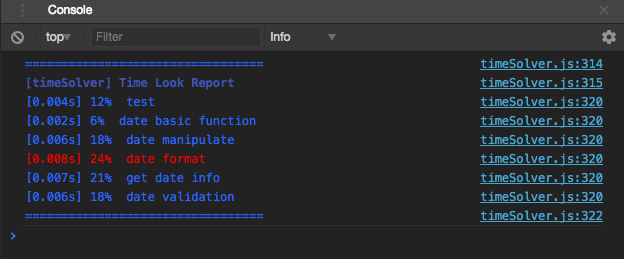
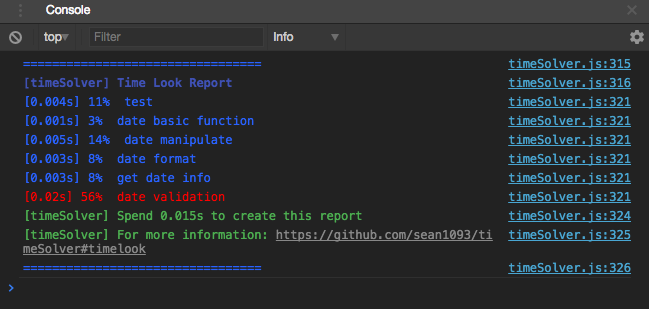
1.1.0

diff --git a/src/1.1.0/timeSolver.min.js b/src/1.1.0/timeSolver.min.js
@@ -1,9 +1,9 @@
 /**
- * timeSolver.js
+ * timeSolver.min.js
  * 
  * @description A small date time tool in JavaScript, see: https://github.com/sean1093/timeSolver/ for details
  * @version v1.1.0
  * @author Sean Chou
  * @license [https://github.com/sean1093/timeSolver/blob/master/LICENSE] [Licensed under MIT]
  */
-!function(){"use strict";var e={add:function(e,t,r){r=n(r),e=o(e),t=void 0===t?0:t;var a=null;switch(r){case 0:a=new Date(e.setMilliseconds(e.getMilliseconds()+t));break;case 1:a=new Date(e.setSeconds(e.getSeconds()+t));break;case 2:a=new Date(e.setMinutes(e.getMinutes()+t));break;case 3:a=new Date(e.setHours(e.getHours()+t));break;case 4:a=new Date(e.setDate(e.getDate()+t));break;case 5:a=new Date(e.setMonth(e.getMonth()+t));break;case 6:a=new Date(e.setFullYear(e.getFullYear()+t));break;default:console.error("[timeSolver.js] Input Type Error")}return a},subtract:function(e,t,r){r=n(r),e=o(e),t=void 0===t?0:t;var a=null;switch(r){case 0:a=new Date(e.setMilliseconds(e.getMilliseconds()-t));break;case 1:a=new Date(e.setSeconds(e.getSeconds()-t));break;case 2:a=new Date(e.setMinutes(e.getMinutes()-t));break;case 3:a=new Date(e.setHours(e.getHours()-t));break;case 4:a=new Date(e.setDate(e.getDate()-t));break;case 5:a=new Date(e.setMonth(e.getMonth()-t));break;case 6:a=new Date(e.setFullYear(e.getFullYear()-t));break;default:console.error("[timeSolver.js] Input Type Error")}return a},equal:function(e,t){return e=o(e),t=o(t),e.toString()===t.toString()},between:function(e,t,r){r=n(r),e=o(e),t=o(t);var a=null;switch(r){case 0:a=t.getTime()-e.getTime();break;case 1:a=(t.getTime()-e.getTime())/1e3;break;case 2:a=(t.getTime()-e.getTime())/6e4;break;case 3:a=(t.getTime()-e.getTime())/36e5;break;case 4:a=(t.getTime()-e.getTime())/864e5;break;case 5:a=(t.getTime()-e.getTime())/26298e5;break;case 6:a=(t.getTime()-e.getTime())/315576e5;break;default:console.error("[timeSolver.js] Input Type Error")}return a},after:function(e,t,r){return!(this.between(e,t,r)>0)},afterToday:function(e){return this.after(e,new Date,"d")},before:function(e,t,r){return this.between(e,t,r)>0},beforeToday:function(e){return this.before(e,new Date,"d")},getString:function(e,t){t=void 0===t?"YYYYMMDD":t.toUpperCase();var r=null,a=(e=o(e)).getFullYear(),n=s(e.getMonth()+1),i=s(e.getDate()),M=s(e.getHours()),Y=s(e.getMinutes()),c=s(e.getSeconds()),u=s(e.getMilliseconds()),l=a.toString(),S=n.toString(),D=i.toString(),b=l+S+D,g=M.toString()+":"+Y.toString()+":"+c.toString(),k=g+"."+u.toString();switch(t){case"YYYY":r=l;break;case"YYYYMM":r=l+S;break;case"YYYYMMDD":r=b;break;case"YYYY/MM/DD":r=l+"/"+S+"/"+D;break;case"YYYY-MM-DD":r=l+"-"+S+"-"+D;break;case"YYYY.MM.DD":r=l+"."+S+"."+D;break;case"MMDDYYYY":r=S+D+l;break;case"MM/DD/YYYY":r=S+"/"+D+"/"+l;break;case"MM-DD-YYYY":r=S+"-"+D+"-"+l;break;case"MM.DD.YYYY":r=S+"."+D+"."+l;break;case"YYYY/MM/DD HH:MM:SS":r=l+"/"+S+"/"+D+" "+g;break;case"YYYY/MM/DD HH:MM:SS.SSS":r=l+"/"+S+"/"+D+" "+k;break;case"YYYY-MM-DD HH:MM:SS":r=l+"-"+S+"-"+D+" "+g;break;case"YYYY-MM-DD HH:MM:SS.SSS":r=l+"-"+S+"-"+D+" "+k;break;case"YYYY.MM.DD HH:MM:SS":case"YYYY.MM.DD HH:MM:SS.SSS":r=l+"."+S+"."+D+" "+g;break;case"YYYYMMDD HH:MM:SS":r=b+" "+g;break;case"YYYYMMDD HH:MM:SS.SSS":r=b+" "+k;break;case"MM/DD/YYYY HH:MM:SS":r=S+"/"+D+"/"+l+" "+g;break;case"MM/DD/YYYY HH:MM:SS.SSS":r=S+"/"+D+"/"+l+" "+k;break;case"MM-DD-YYYY HH:MM:SS":r=S+"-"+D+"-"+l+" "+g;break;case"MM-DD-YYYY HH:MM:SS.SSS":r=S+"-"+D+"-"+l+" "+k;break;case"MM.DD.YYYY HH:MM:SS":r=S+"."+D+"."+l+" "+g;break;case"MM.DD.YYYY HH:MM:SS.SSS":r=S+"."+D+"."+l+" "+k;break;case"HH:MM:SS":r=g;break;case"HH:MM:SS.SSS":r=k;break;default:console.error("[timeSolver.js] Input Type Error")}return r},getAbbrWeek:function(e){return(e=o(e)).toString().substring(0,3)},getFullWeek:function(e){return e=o(e),r[e.getDay()]},getAbbrMonth:function(e){return(e=o(e)).toString().substring(3,7)},getFullMonth:function(e){return e=o(e),t[e.getMonth()]},isValid:function(e,t){var r=!0;if(void 0===t)"Invalid Date"==new Date(e)&&(r=!1);else switch(t=t.toUpperCase()){case"YYYY/MM/DD":a.a.test(e)||(r=!1);break;case"YYYY-MM-DD":a.b.test(e)||(r=!1);break;case"YYYY.MM.DD":a.c.test(e)||(r=!1);break;default:console.error("[timeSolver.js] Input Type Error"),r=null}return r},timeArray:[],timeLookMax:0,timeLookTotal:0,timeLookStart:function(){this.timeArray.length=0,this.timeLookMax=0,this.timeLookTotal=0,this.timeArray.push({label:"start",time:new Date,interval:0})},timeLook:function(e){var t=this.timeArray[this.timeArray.length-1],r=new Date,a=this.between(t.time,r,"S");this.timeLookTotal+=a,this.timeLookMax=a>this.timeLookMax?a:this.timeLookMax,this.timeArray.push({label:e,time:new Date,interval:a})},timeLookReport:function(){new Date;console.log("%c=================================","color: #2962FF"),console.log("%c[timeSolver] Time Look Report","font-weight: bold; color: #3F51B5");for(var t=1;t<e.timeArray.length;t++){var r=e.timeArray[t].label,a=e.timeArray[t].interval,o=this.timeLookMax==a?"color: #ff0000":"color: #2962FF";console.log("%c["+a+"s] "+Math.round(a/this.timeLookTotal*100)+"%  "+r,o)}console.log("%c=================================","color: #2962FF")}},t=["January","February","March","April","May","June","July","August","September","October","November","December"],r=["Sunday","Monday","Tuesday","Wednesday","Thursday","Friday","Saturday"],a={a:/^(\d{4})([/])((1|3|5|7|8|0[13578]|1[02])\2([1-9]|0[1-9]|1[0-9]|2[0-9]|3[01])|(4|6|9|0[469]|11)\2([1-9]|0[1-9]|1[0-9]|2[0-9]|3[0])|(02|2)\2([1-9]|0[1-9]|1[0-9]|2[0-8]))$/,b:/^(\d{4})([-])((1|3|5|7|8|0[13578]|1[02])\2([1-9]|0[1-9]|1[0-9]|2[0-9]|3[01])|(4|6|9|0[469]|11)\2([1-9]|0[1-9]|1[0-9]|2[0-9]|3[0])|(02|2)\2([1-9]|0[1-9]|1[0-9]|2[0-8]))$/,c:/^(\d{4})([.])((1|3|5|7|8|0[13578]|1[02])\2([1-9]|0[1-9]|1[0-9]|2[0-9]|3[01])|(4|6|9|0[469]|11)\2([1-9]|0[1-9]|1[0-9]|2[0-9]|3[0])|(02|2)\2([1-9]|0[1-9]|1[0-9]|2[0-8]))$/},o=function(e){return"object"!=typeof e?new Date(e):e},n=function(e){return e=void 0===e?"MILLISECOND":e.toUpperCase(),"MILLISECOND"==e||"MILL"==e?e=0:"SECOND"==e||"S"==e?e=1:"MINUTE"==e||"MIN"==e?e=2:"HOUR"==e||"H"==e?e=3:"DAY"==e||"D"==e?e=4:"MONTH"==e||"M"==e?e=5:"YEAR"!=e&&"Y"!=e||(e=6),e},s=function(e){return e<10?"0"+e:e};"undefined"!=typeof module&&void 0!==module.exports?module.exports=e:window.timeSolver=e}();
+!function(){"use strict";var e={add:function(e,t,r){r=n(r),e=o(e),t=void 0===t?0:t;var a=null;switch(r){case 0:a=new Date(e.setMilliseconds(e.getMilliseconds()+t));break;case 1:a=new Date(e.setSeconds(e.getSeconds()+t));break;case 2:a=new Date(e.setMinutes(e.getMinutes()+t));break;case 3:a=new Date(e.setHours(e.getHours()+t));break;case 4:a=new Date(e.setDate(e.getDate()+t));break;case 5:a=new Date(e.setMonth(e.getMonth()+t));break;case 6:a=new Date(e.setFullYear(e.getFullYear()+t));break;default:console.error("[timeSolver.js] Input Type Error")}return a},subtract:function(e,t,r){r=n(r),e=o(e),t=void 0===t?0:t;var a=null;switch(r){case 0:a=new Date(e.setMilliseconds(e.getMilliseconds()-t));break;case 1:a=new Date(e.setSeconds(e.getSeconds()-t));break;case 2:a=new Date(e.setMinutes(e.getMinutes()-t));break;case 3:a=new Date(e.setHours(e.getHours()-t));break;case 4:a=new Date(e.setDate(e.getDate()-t));break;case 5:a=new Date(e.setMonth(e.getMonth()-t));break;case 6:a=new Date(e.setFullYear(e.getFullYear()-t));break;default:console.error("[timeSolver.js] Input Type Error")}return a},equal:function(e,t){return e=o(e),t=o(t),e.toString()===t.toString()},between:function(e,t,r){r=n(r),e=o(e),t=o(t);var a=null;switch(r){case 0:a=t.getTime()-e.getTime();break;case 1:a=(t.getTime()-e.getTime())/1e3;break;case 2:a=(t.getTime()-e.getTime())/6e4;break;case 3:a=(t.getTime()-e.getTime())/36e5;break;case 4:a=(t.getTime()-e.getTime())/864e5;break;case 5:a=(t.getTime()-e.getTime())/26298e5;break;case 6:a=(t.getTime()-e.getTime())/315576e5;break;default:console.error("[timeSolver.js] Input Type Error")}return a},after:function(e,t,r){return!(this.between(e,t,r)>0)},afterToday:function(e){return this.after(e,new Date,"d")},before:function(e,t,r){return this.between(e,t,r)>0},beforeToday:function(e){return this.before(e,new Date,"d")},getString:function(e,t){t=void 0===t?"YYYYMMDD":t.toUpperCase();var r=null,a=(e=o(e)).getFullYear(),n=s(e.getMonth()+1),i=s(e.getDate()),M=s(e.getHours()),c=s(e.getMinutes()),Y=s(e.getSeconds()),l=s(e.getMilliseconds()),S=a.toString(),u=n.toString(),D=i.toString(),b=S+u+D,g=M.toString()+":"+c.toString()+":"+Y.toString(),k=g+"."+l.toString();switch(t){case"YYYY":r=S;break;case"YYYYMM":r=S+u;break;case"YYYYMMDD":r=b;break;case"YYYY/MM/DD":r=S+"/"+u+"/"+D;break;case"YYYY-MM-DD":r=S+"-"+u+"-"+D;break;case"YYYY.MM.DD":r=S+"."+u+"."+D;break;case"MMDDYYYY":r=u+D+S;break;case"MM/DD/YYYY":r=u+"/"+D+"/"+S;break;case"MM-DD-YYYY":r=u+"-"+D+"-"+S;break;case"MM.DD.YYYY":r=u+"."+D+"."+S;break;case"YYYY/MM/DD HH:MM:SS":r=S+"/"+u+"/"+D+" "+g;break;case"YYYY/MM/DD HH:MM:SS.SSS":r=S+"/"+u+"/"+D+" "+k;break;case"YYYY-MM-DD HH:MM:SS":r=S+"-"+u+"-"+D+" "+g;break;case"YYYY-MM-DD HH:MM:SS.SSS":r=S+"-"+u+"-"+D+" "+k;break;case"YYYY.MM.DD HH:MM:SS":case"YYYY.MM.DD HH:MM:SS.SSS":r=S+"."+u+"."+D+" "+g;break;case"YYYYMMDD HH:MM:SS":r=b+" "+g;break;case"YYYYMMDD HH:MM:SS.SSS":r=b+" "+k;break;case"MM/DD/YYYY HH:MM:SS":r=u+"/"+D+"/"+S+" "+g;break;case"MM/DD/YYYY HH:MM:SS.SSS":r=u+"/"+D+"/"+S+" "+k;break;case"MM-DD-YYYY HH:MM:SS":r=u+"-"+D+"-"+S+" "+g;break;case"MM-DD-YYYY HH:MM:SS.SSS":r=u+"-"+D+"-"+S+" "+k;break;case"MM.DD.YYYY HH:MM:SS":r=u+"."+D+"."+S+" "+g;break;case"MM.DD.YYYY HH:MM:SS.SSS":r=u+"."+D+"."+S+" "+k;break;case"HH:MM:SS":r=g;break;case"HH:MM:SS.SSS":r=k;break;default:console.error("[timeSolver.js] Input Type Error")}return r},getAbbrWeek:function(e){return(e=o(e)).toString().substring(0,3)},getFullWeek:function(e){return e=o(e),r[e.getDay()]},getAbbrMonth:function(e){return(e=o(e)).toString().substring(3,7)},getFullMonth:function(e){return e=o(e),t[e.getMonth()]},isValid:function(e,t){var r=!0;if(void 0===t)"Invalid Date"==new Date(e)&&(r=!1);else switch(t=t.toUpperCase()){case"YYYY/MM/DD":a.a.test(e)||(r=!1);break;case"YYYY-MM-DD":a.b.test(e)||(r=!1);break;case"YYYY.MM.DD":a.c.test(e)||(r=!1);break;default:console.error("[timeSolver.js] Input Type Error"),r=null}return r},timeArray:[],timeLookMax:0,timeLookTotal:0,timeLookStart:function(){this.timeArray.length=0,this.timeLookMax=0,this.timeLookTotal=0,this.timeArray.push({label:"start",time:new Date,interval:0})},timeLook:function(e){var t=this.timeArray[this.timeArray.length-1],r=new Date,a=this.between(t.time,r,"S");this.timeLookTotal+=a,this.timeLookMax=a>this.timeLookMax?a:this.timeLookMax,this.timeArray.push({label:e,time:new Date,interval:a})},timeLookReport:function(){var t=new Date;console.log("%c=================================","color: #2962FF"),console.log("%c[timeSolver] Time Look Report","font-weight: bold; color: #3F51B5");for(var r=1;r<e.timeArray.length;r++){var a=e.timeArray[r].label,o=e.timeArray[r].interval,n=this.timeLookMax==o?"color: #ff0000":"color: #2962FF";console.log("%c["+o+"s] "+Math.round(o/this.timeLookTotal*100)+"%  "+a,n)}var s=new Date;console.log("%c[timeSolver] Spend "+this.between(t,s,"S")+"s to create this report","color: #4CAF50"),console.log("%c[timeSolver] For more information: https://github.com/sean1093/timeSolver#timelook","color: #4CAF50"),console.log("%c=================================","color: #2962FF")}},t=["January","February","March","April","May","June","July","August","September","October","November","December"],r=["Sunday","Monday","Tuesday","Wednesday","Thursday","Friday","Saturday"],a={a:/^(\d{4})([/])((1|3|5|7|8|0[13578]|1[02])\2([1-9]|0[1-9]|1[0-9]|2[0-9]|3[01])|(4|6|9|0[469]|11)\2([1-9]|0[1-9]|1[0-9]|2[0-9]|3[0])|(02|2)\2([1-9]|0[1-9]|1[0-9]|2[0-8]))$/,b:/^(\d{4})([-])((1|3|5|7|8|0[13578]|1[02])\2([1-9]|0[1-9]|1[0-9]|2[0-9]|3[01])|(4|6|9|0[469]|11)\2([1-9]|0[1-9]|1[0-9]|2[0-9]|3[0])|(02|2)\2([1-9]|0[1-9]|1[0-9]|2[0-8]))$/,c:/^(\d{4})([.])((1|3|5|7|8|0[13578]|1[02])\2([1-9]|0[1-9]|1[0-9]|2[0-9]|3[01])|(4|6|9|0[469]|11)\2([1-9]|0[1-9]|1[0-9]|2[0-9]|3[0])|(02|2)\2([1-9]|0[1-9]|1[0-9]|2[0-8]))$/},o=function(e){return"object"!=typeof e?new Date(e):e},n=function(e){return e=void 0===e?"MILLISECOND":e.toUpperCase(),"MILLISECOND"==e||"MILL"==e?e=0:"SECOND"==e||"S"==e?e=1:"MINUTE"==e||"MIN"==e?e=2:"HOUR"==e||"H"==e?e=3:"DAY"==e||"D"==e?e=4:"MONTH"==e||"M"==e?e=5:"YEAR"!=e&&"Y"!=e||(e=6),e},s=function(e){return e<10?"0"+e:e};"undefined"!=typeof module&&void 0!==module.exports?module.exports=e:window.timeSolver=e}();

diff --git a/timeSolver.min.js b/timeSolver.min.js
@@ -1,9 +1,9 @@
 /**
- * timeSolver.js
+ * timeSolver.min.js
  * 
  * @description A small date time tool in JavaScript, see: https://github.com/sean1093/timeSolver/ for details
  * @version v1.1.0
  * @author Sean Chou
  * @license [https://github.com/sean1093/timeSolver/blob/master/LICENSE] [Licensed under MIT]
  */
-!function(){"use strict";var e={add:function(e,t,r){r=n(r),e=o(e),t=void 0===t?0:t;var a=null;switch(r){case 0:a=new Date(e.setMilliseconds(e.getMilliseconds()+t));break;case 1:a=new Date(e.setSeconds(e.getSeconds()+t));break;case 2:a=new Date(e.setMinutes(e.getMinutes()+t));break;case 3:a=new Date(e.setHours(e.getHours()+t));break;case 4:a=new Date(e.setDate(e.getDate()+t));break;case 5:a=new Date(e.setMonth(e.getMonth()+t));break;case 6:a=new Date(e.setFullYear(e.getFullYear()+t));break;default:console.error("[timeSolver.js] Input Type Error")}return a},subtract:function(e,t,r){r=n(r),e=o(e),t=void 0===t?0:t;var a=null;switch(r){case 0:a=new Date(e.setMilliseconds(e.getMilliseconds()-t));break;case 1:a=new Date(e.setSeconds(e.getSeconds()-t));break;case 2:a=new Date(e.setMinutes(e.getMinutes()-t));break;case 3:a=new Date(e.setHours(e.getHours()-t));break;case 4:a=new Date(e.setDate(e.getDate()-t));break;case 5:a=new Date(e.setMonth(e.getMonth()-t));break;case 6:a=new Date(e.setFullYear(e.getFullYear()-t));break;default:console.error("[timeSolver.js] Input Type Error")}return a},equal:function(e,t){return e=o(e),t=o(t),e.toString()===t.toString()},between:function(e,t,r){r=n(r),e=o(e),t=o(t);var a=null;switch(r){case 0:a=t.getTime()-e.getTime();break;case 1:a=(t.getTime()-e.getTime())/1e3;break;case 2:a=(t.getTime()-e.getTime())/6e4;break;case 3:a=(t.getTime()-e.getTime())/36e5;break;case 4:a=(t.getTime()-e.getTime())/864e5;break;case 5:a=(t.getTime()-e.getTime())/26298e5;break;case 6:a=(t.getTime()-e.getTime())/315576e5;break;default:console.error("[timeSolver.js] Input Type Error")}return a},after:function(e,t,r){return!(this.between(e,t,r)>0)},afterToday:function(e){return this.after(e,new Date,"d")},before:function(e,t,r){return this.between(e,t,r)>0},beforeToday:function(e){return this.before(e,new Date,"d")},getString:function(e,t){t=void 0===t?"YYYYMMDD":t.toUpperCase();var r=null,a=(e=o(e)).getFullYear(),n=s(e.getMonth()+1),i=s(e.getDate()),M=s(e.getHours()),Y=s(e.getMinutes()),c=s(e.getSeconds()),u=s(e.getMilliseconds()),l=a.toString(),S=n.toString(),D=i.toString(),b=l+S+D,g=M.toString()+":"+Y.toString()+":"+c.toString(),k=g+"."+u.toString();switch(t){case"YYYY":r=l;break;case"YYYYMM":r=l+S;break;case"YYYYMMDD":r=b;break;case"YYYY/MM/DD":r=l+"/"+S+"/"+D;break;case"YYYY-MM-DD":r=l+"-"+S+"-"+D;break;case"YYYY.MM.DD":r=l+"."+S+"."+D;break;case"MMDDYYYY":r=S+D+l;break;case"MM/DD/YYYY":r=S+"/"+D+"/"+l;break;case"MM-DD-YYYY":r=S+"-"+D+"-"+l;break;case"MM.DD.YYYY":r=S+"."+D+"."+l;break;case"YYYY/MM/DD HH:MM:SS":r=l+"/"+S+"/"+D+" "+g;break;case"YYYY/MM/DD HH:MM:SS.SSS":r=l+"/"+S+"/"+D+" "+k;break;case"YYYY-MM-DD HH:MM:SS":r=l+"-"+S+"-"+D+" "+g;break;case"YYYY-MM-DD HH:MM:SS.SSS":r=l+"-"+S+"-"+D+" "+k;break;case"YYYY.MM.DD HH:MM:SS":case"YYYY.MM.DD HH:MM:SS.SSS":r=l+"."+S+"."+D+" "+g;break;case"YYYYMMDD HH:MM:SS":r=b+" "+g;break;case"YYYYMMDD HH:MM:SS.SSS":r=b+" "+k;break;case"MM/DD/YYYY HH:MM:SS":r=S+"/"+D+"/"+l+" "+g;break;case"MM/DD/YYYY HH:MM:SS.SSS":r=S+"/"+D+"/"+l+" "+k;break;case"MM-DD-YYYY HH:MM:SS":r=S+"-"+D+"-"+l+" "+g;break;case"MM-DD-YYYY HH:MM:SS.SSS":r=S+"-"+D+"-"+l+" "+k;break;case"MM.DD.YYYY HH:MM:SS":r=S+"."+D+"."+l+" "+g;break;case"MM.DD.YYYY HH:MM:SS.SSS":r=S+"."+D+"."+l+" "+k;break;case"HH:MM:SS":r=g;break;case"HH:MM:SS.SSS":r=k;break;default:console.error("[timeSolver.js] Input Type Error")}return r},getAbbrWeek:function(e){return(e=o(e)).toString().substring(0,3)},getFullWeek:function(e){return e=o(e),r[e.getDay()]},getAbbrMonth:function(e){return(e=o(e)).toString().substring(3,7)},getFullMonth:function(e){return e=o(e),t[e.getMonth()]},isValid:function(e,t){var r=!0;if(void 0===t)"Invalid Date"==new Date(e)&&(r=!1);else switch(t=t.toUpperCase()){case"YYYY/MM/DD":a.a.test(e)||(r=!1);break;case"YYYY-MM-DD":a.b.test(e)||(r=!1);break;case"YYYY.MM.DD":a.c.test(e)||(r=!1);break;default:console.error("[timeSolver.js] Input Type Error"),r=null}return r},timeArray:[],timeLookMax:0,timeLookTotal:0,timeLookStart:function(){this.timeArray.length=0,this.timeLookMax=0,this.timeLookTotal=0,this.timeArray.push({label:"start",time:new Date,interval:0})},timeLook:function(e){var t=this.timeArray[this.timeArray.length-1],r=new Date,a=this.between(t.time,r,"S");this.timeLookTotal+=a,this.timeLookMax=a>this.timeLookMax?a:this.timeLookMax,this.timeArray.push({label:e,time:new Date,interval:a})},timeLookReport:function(){new Date;console.log("%c=================================","color: #2962FF"),console.log("%c[timeSolver] Time Look Report","font-weight: bold; color: #3F51B5");for(var t=1;t<e.timeArray.length;t++){var r=e.timeArray[t].label,a=e.timeArray[t].interval,o=this.timeLookMax==a?"color: #ff0000":"color: #2962FF";console.log("%c["+a+"s] "+Math.round(a/this.timeLookTotal*100)+"%  "+r,o)}console.log("%c=================================","color: #2962FF")}},t=["January","February","March","April","May","June","July","August","September","October","November","December"],r=["Sunday","Monday","Tuesday","Wednesday","Thursday","Friday","Saturday"],a={a:/^(\d{4})([/])((1|3|5|7|8|0[13578]|1[02])\2([1-9]|0[1-9]|1[0-9]|2[0-9]|3[01])|(4|6|9|0[469]|11)\2([1-9]|0[1-9]|1[0-9]|2[0-9]|3[0])|(02|2)\2([1-9]|0[1-9]|1[0-9]|2[0-8]))$/,b:/^(\d{4})([-])((1|3|5|7|8|0[13578]|1[02])\2([1-9]|0[1-9]|1[0-9]|2[0-9]|3[01])|(4|6|9|0[469]|11)\2([1-9]|0[1-9]|1[0-9]|2[0-9]|3[0])|(02|2)\2([1-9]|0[1-9]|1[0-9]|2[0-8]))$/,c:/^(\d{4})([.])((1|3|5|7|8|0[13578]|1[02])\2([1-9]|0[1-9]|1[0-9]|2[0-9]|3[01])|(4|6|9|0[469]|11)\2([1-9]|0[1-9]|1[0-9]|2[0-9]|3[0])|(02|2)\2([1-9]|0[1-9]|1[0-9]|2[0-8]))$/},o=function(e){return"object"!=typeof e?new Date(e):e},n=function(e){return e=void 0===e?"MILLISECOND":e.toUpperCase(),"MILLISECOND"==e||"MILL"==e?e=0:"SECOND"==e||"S"==e?e=1:"MINUTE"==e||"MIN"==e?e=2:"HOUR"==e||"H"==e?e=3:"DAY"==e||"D"==e?e=4:"MONTH"==e||"M"==e?e=5:"YEAR"!=e&&"Y"!=e||(e=6),e},s=function(e){return e<10?"0"+e:e};"undefined"!=typeof module&&void 0!==module.exports?module.exports=e:window.timeSolver=e}();
+!function(){"use strict";var e={add:function(e,t,r){r=n(r),e=o(e),t=void 0===t?0:t;var a=null;switch(r){case 0:a=new Date(e.setMilliseconds(e.getMilliseconds()+t));break;case 1:a=new Date(e.setSeconds(e.getSeconds()+t));break;case 2:a=new Date(e.setMinutes(e.getMinutes()+t));break;case 3:a=new Date(e.setHours(e.getHours()+t));break;case 4:a=new Date(e.setDate(e.getDate()+t));break;case 5:a=new Date(e.setMonth(e.getMonth()+t));break;case 6:a=new Date(e.setFullYear(e.getFullYear()+t));break;default:console.error("[timeSolver.js] Input Type Error")}return a},subtract:function(e,t,r){r=n(r),e=o(e),t=void 0===t?0:t;var a=null;switch(r){case 0:a=new Date(e.setMilliseconds(e.getMilliseconds()-t));break;case 1:a=new Date(e.setSeconds(e.getSeconds()-t));break;case 2:a=new Date(e.setMinutes(e.getMinutes()-t));break;case 3:a=new Date(e.setHours(e.getHours()-t));break;case 4:a=new Date(e.setDate(e.getDate()-t));break;case 5:a=new Date(e.setMonth(e.getMonth()-t));break;case 6:a=new Date(e.setFullYear(e.getFullYear()-t));break;default:console.error("[timeSolver.js] Input Type Error")}return a},equal:function(e,t){return e=o(e),t=o(t),e.toString()===t.toString()},between:function(e,t,r){r=n(r),e=o(e),t=o(t);var a=null;switch(r){case 0:a=t.getTime()-e.getTime();break;case 1:a=(t.getTime()-e.getTime())/1e3;break;case 2:a=(t.getTime()-e.getTime())/6e4;break;case 3:a=(t.getTime()-e.getTime())/36e5;break;case 4:a=(t.getTime()-e.getTime())/864e5;break;case 5:a=(t.getTime()-e.getTime())/26298e5;break;case 6:a=(t.getTime()-e.getTime())/315576e5;break;default:console.error("[timeSolver.js] Input Type Error")}return a},after:function(e,t,r){return!(this.between(e,t,r)>0)},afterToday:function(e){return this.after(e,new Date,"d")},before:function(e,t,r){return this.between(e,t,r)>0},beforeToday:function(e){return this.before(e,new Date,"d")},getString:function(e,t){t=void 0===t?"YYYYMMDD":t.toUpperCase();var r=null,a=(e=o(e)).getFullYear(),n=s(e.getMonth()+1),i=s(e.getDate()),M=s(e.getHours()),c=s(e.getMinutes()),Y=s(e.getSeconds()),l=s(e.getMilliseconds()),S=a.toString(),u=n.toString(),D=i.toString(),b=S+u+D,g=M.toString()+":"+c.toString()+":"+Y.toString(),k=g+"."+l.toString();switch(t){case"YYYY":r=S;break;case"YYYYMM":r=S+u;break;case"YYYYMMDD":r=b;break;case"YYYY/MM/DD":r=S+"/"+u+"/"+D;break;case"YYYY-MM-DD":r=S+"-"+u+"-"+D;break;case"YYYY.MM.DD":r=S+"."+u+"."+D;break;case"MMDDYYYY":r=u+D+S;break;case"MM/DD/YYYY":r=u+"/"+D+"/"+S;break;case"MM-DD-YYYY":r=u+"-"+D+"-"+S;break;case"MM.DD.YYYY":r=u+"."+D+"."+S;break;case"YYYY/MM/DD HH:MM:SS":r=S+"/"+u+"/"+D+" "+g;break;case"YYYY/MM/DD HH:MM:SS.SSS":r=S+"/"+u+"/"+D+" "+k;break;case"YYYY-MM-DD HH:MM:SS":r=S+"-"+u+"-"+D+" "+g;break;case"YYYY-MM-DD HH:MM:SS.SSS":r=S+"-"+u+"-"+D+" "+k;break;case"YYYY.MM.DD HH:MM:SS":case"YYYY.MM.DD HH:MM:SS.SSS":r=S+"."+u+"."+D+" "+g;break;case"YYYYMMDD HH:MM:SS":r=b+" "+g;break;case"YYYYMMDD HH:MM:SS.SSS":r=b+" "+k;break;case"MM/DD/YYYY HH:MM:SS":r=u+"/"+D+"/"+S+" "+g;break;case"MM/DD/YYYY HH:MM:SS.SSS":r=u+"/"+D+"/"+S+" "+k;break;case"MM-DD-YYYY HH:MM:SS":r=u+"-"+D+"-"+S+" "+g;break;case"MM-DD-YYYY HH:MM:SS.SSS":r=u+"-"+D+"-"+S+" "+k;break;case"MM.DD.YYYY HH:MM:SS":r=u+"."+D+"."+S+" "+g;break;case"MM.DD.YYYY HH:MM:SS.SSS":r=u+"."+D+"."+S+" "+k;break;case"HH:MM:SS":r=g;break;case"HH:MM:SS.SSS":r=k;break;default:console.error("[timeSolver.js] Input Type Error")}return r},getAbbrWeek:function(e){return(e=o(e)).toString().substring(0,3)},getFullWeek:function(e){return e=o(e),r[e.getDay()]},getAbbrMonth:function(e){return(e=o(e)).toString().substring(3,7)},getFullMonth:function(e){return e=o(e),t[e.getMonth()]},isValid:function(e,t){var r=!0;if(void 0===t)"Invalid Date"==new Date(e)&&(r=!1);else switch(t=t.toUpperCase()){case"YYYY/MM/DD":a.a.test(e)||(r=!1);break;case"YYYY-MM-DD":a.b.test(e)||(r=!1);break;case"YYYY.MM.DD":a.c.test(e)||(r=!1);break;default:console.error("[timeSolver.js] Input Type Error"),r=null}return r},timeArray:[],timeLookMax:0,timeLookTotal:0,timeLookStart:function(){this.timeArray.length=0,this.timeLookMax=0,this.timeLookTotal=0,this.timeArray.push({label:"start",time:new Date,interval:0})},timeLook:function(e){var t=this.timeArray[this.timeArray.length-1],r=new Date,a=this.between(t.time,r,"S");this.timeLookTotal+=a,this.timeLookMax=a>this.timeLookMax?a:this.timeLookMax,this.timeArray.push({label:e,time:new Date,interval:a})},timeLookReport:function(){var t=new Date;console.log("%c=================================","color: #2962FF"),console.log("%c[timeSolver] Time Look Report","font-weight: bold; color: #3F51B5");for(var r=1;r<e.timeArray.length;r++){var a=e.timeArray[r].label,o=e.timeArray[r].interval,n=this.timeLookMax==o?"color: #ff0000":"color: #2962FF";console.log("%c["+o+"s] "+Math.round(o/this.timeLookTotal*100)+"%  "+a,n)}var s=new Date;console.log("%c[timeSolver] Spend "+this.between(t,s,"S")+"s to create this report","color: #4CAF50"),console.log("%c[timeSolver] For more information: https://github.com/sean1093/timeSolver#timelook","color: #4CAF50"),console.log("%c=================================","color: #2962FF")}},t=["January","February","March","April","May","June","July","August","September","October","November","December"],r=["Sunday","Monday","Tuesday","Wednesday","Thursday","Friday","Saturday"],a={a:/^(\d{4})([/])((1|3|5|7|8|0[13578]|1[02])\2([1-9]|0[1-9]|1[0-9]|2[0-9]|3[01])|(4|6|9|0[469]|11)\2([1-9]|0[1-9]|1[0-9]|2[0-9]|3[0])|(02|2)\2([1-9]|0[1-9]|1[0-9]|2[0-8]))$/,b:/^(\d{4})([-])((1|3|5|7|8|0[13578]|1[02])\2([1-9]|0[1-9]|1[0-9]|2[0-9]|3[01])|(4|6|9|0[469]|11)\2([1-9]|0[1-9]|1[0-9]|2[0-9]|3[0])|(02|2)\2([1-9]|0[1-9]|1[0-9]|2[0-8]))$/,c:/^(\d{4})([.])((1|3|5|7|8|0[13578]|1[02])\2([1-9]|0[1-9]|1[0-9]|2[0-9]|3[01])|(4|6|9|0[469]|11)\2([1-9]|0[1-9]|1[0-9]|2[0-9]|3[0])|(02|2)\2([1-9]|0[1-9]|1[0-9]|2[0-8]))$/},o=function(e){return"object"!=typeof e?new Date(e):e},n=function(e){return e=void 0===e?"MILLISECOND":e.toUpperCase(),"MILLISECOND"==e||"MILL"==e?e=0:"SECOND"==e||"S"==e?e=1:"MINUTE"==e||"MIN"==e?e=2:"HOUR"==e||"H"==e?e=3:"DAY"==e||"D"==e?e=4:"MONTH"==e||"M"==e?e=5:"YEAR"!=e&&"Y"!=e||(e=6),e},s=function(e){return e<10?"0"+e:e};"undefined"!=typeof module&&void 0!==module.exports?module.exports=e:window.timeSolver=e}();

diff --git a/src/1.1.0/timeSolver.js b/src/1.1.0/timeSolver.js
@@ -309,6 +309,7 @@
         timeLookReport: function() {
             var titleStyle = "font-weight: bold; color: #3F51B5";
             var reportStyle = "color: #2962FF";
+            var infoStyle = "color: #4CAF50";
             var maxStyle = "color: #ff0000";
             var now = new Date();
             console.log("%c=================================", reportStyle);
@@ -319,6 +320,9 @@
                 var style = this.timeLookMax == interval ? maxStyle : reportStyle;
                 console.log("%c["+ interval +"s] "+Math.round((interval/this.timeLookTotal)*100) +"%  "+label , style);
             }
+            var end = new Date();
+            console.log("%c[timeSolver] Spend "+this.between(now, end, "S")+"s to create this report", infoStyle);
+            console.log("%c[timeSolver] For more information: https://github.com/sean1093/timeSolver#timelook", infoStyle);
             console.log("%c=================================", reportStyle);
         }
     };

diff --git a/timeSolver.js b/timeSolver.js
@@ -309,6 +309,7 @@
         timeLookReport: function() {
             var titleStyle = "font-weight: bold; color: #3F51B5";
             var reportStyle = "color: #2962FF";
+            var infoStyle = "color: #4CAF50";
             var maxStyle = "color: #ff0000";
             var now = new Date();
             console.log("%c=================================", reportStyle);
@@ -319,6 +320,9 @@
                 var style = this.timeLookMax == interval ? maxStyle : reportStyle;
                 console.log("%c["+ interval +"s] "+Math.round((interval/this.timeLookTotal)*100) +"%  "+label , style);
             }
+            var end = new Date();
+            console.log("%c[timeSolver] Spend "+this.between(now, end, "S")+"s to create this report", infoStyle);
+            console.log("%c[timeSolver] For more information: https://github.com/sean1093/timeSolver#timelook", infoStyle);
             console.log("%c=================================", reportStyle);
         }
     };

diff --git a/README.md b/README.md
@@ -1,8 +1,10 @@
 # timeSolver.js
 
-A small library for manipulating, validating and formatting JavaScript date object. Futhermore, it can helps you log your execution time by using timeLook.
+A small library for manipulating, validating and formatting JavaScript date object. Futhermore, it can helps you log your execution time by using [timelook].
 
-#### <font color="red"> Current Version : v1.1.0 <font>
+
+#### Current Version : v1.1.0 
+
 
 ## Getting Start
 
@@ -182,36 +184,6 @@ let result = timeSolver.isValid(dateString, format);
 
 
 
-## timeLook
-It can helps you log your execution time by using timeLook
-
-1. start timeLook
-```js
-timeSolver.timeLookStart();
-```
-
-2. set your break point with label text
-```js
-timeSolver.timeLook("Hello World");
-...
-timeSolver.timeLook("Hello");
-...
-
-```
-
-3. see your time log report 
-```js
-timeSolver.timeLookReport();
-```
-
-For example, it will print on your browser console. 
-
-![timeLook](https://github.com/sean1093/timeSolver/blob/master/img/timeLook.png "timeLook")
-
-It will shows every execution time between your two break point, and mark the bottleneck with red color. 
-
-
-
 #### timeSolver time unit
 * 
     <table>
@@ -315,6 +287,42 @@ It will shows every execution time between your two break point, and mark the bo
         </tbody>
     </table>
 
+
+
+
+## timeLook
+It can helps you log your execution time by using timeLook
+
+1. start timeLook
+```js
+timeSolver.timeLookStart();
+```
+
+2. set your break point with label text
+```js
+timeSolver.timeLook("test");
+...
+timeSolver.timeLook("date basic function");
+...
+...
+
+```
+
+3. see your time log report 
+```js
+timeSolver.timeLookReport();
+```
+
+For example, it will print on your browser console. 
+
+![timeLook](https://github.com/sean1093/timeSolver/blob/master/img/timeLook.png "timeLook")
+
+It will shows every execution time between your two break point, and mark the bottleneck with red color(Chrome Console). 
+
+
+
+
+
 ### Update log
 * 1.1.0 (20170614)
     + New feature: timeLook, helps you log your execution time
@@ -334,6 +342,8 @@ It will shows every execution time between your two break point, and mark the bo
 * 1.0.1 
     + Add new function: isValid()
 
+
+[timelook]: <https://github.com/sean1093/timeSolver#timelook>
 
 [timeSolver time unit]: <https://github.com/sean1093/timeSolver#timesolver-time-unit>
 
